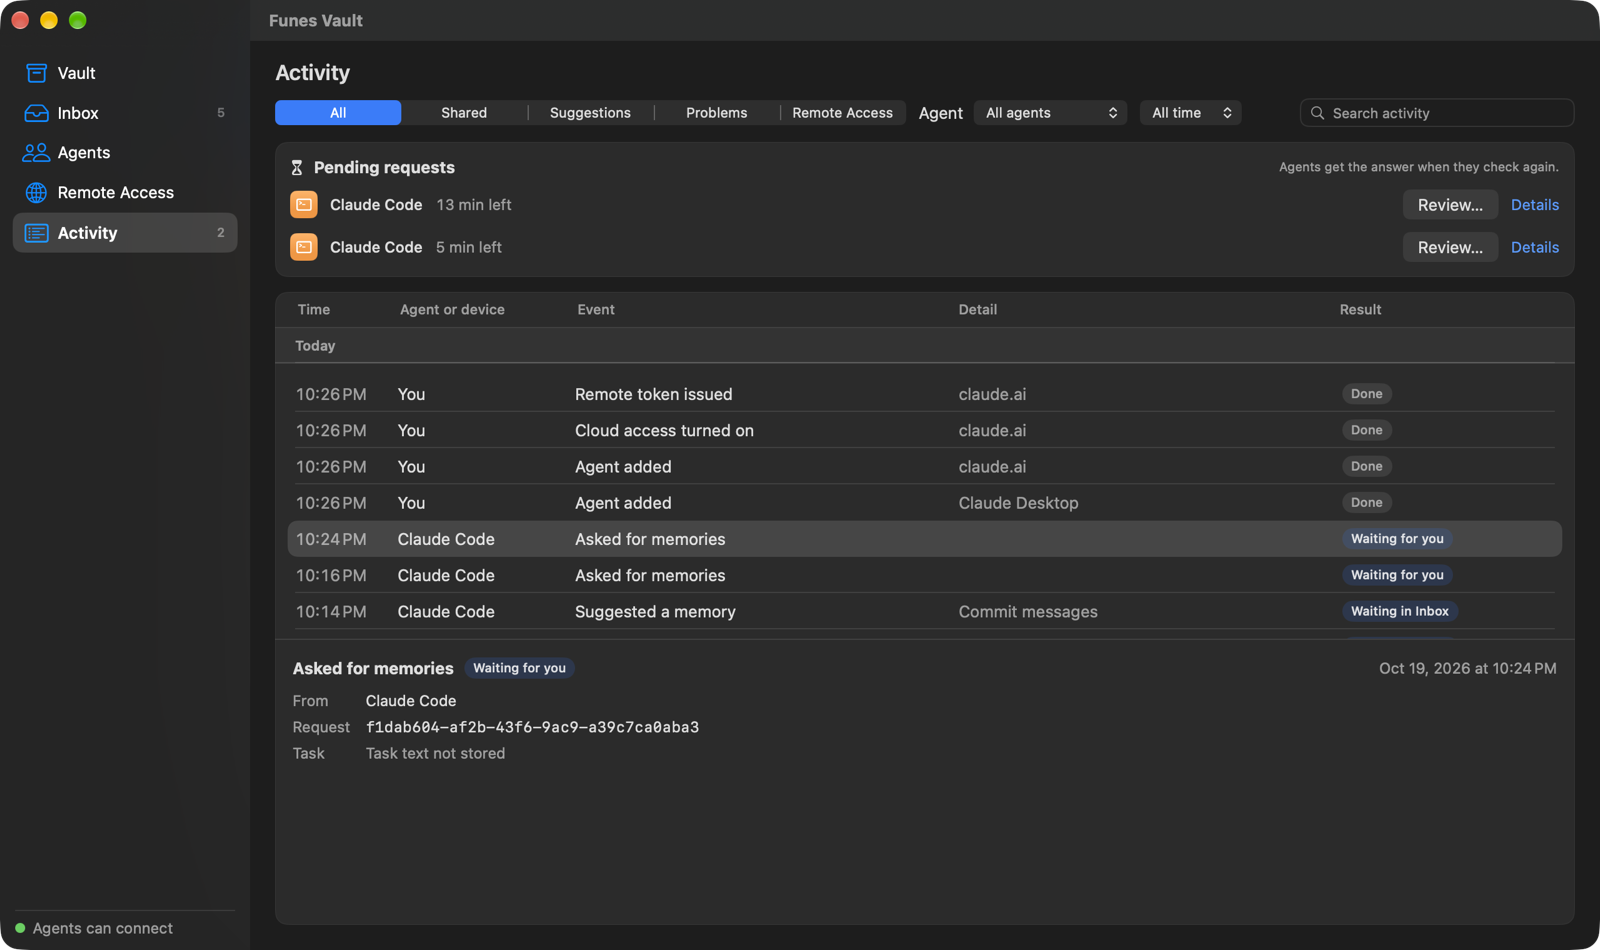
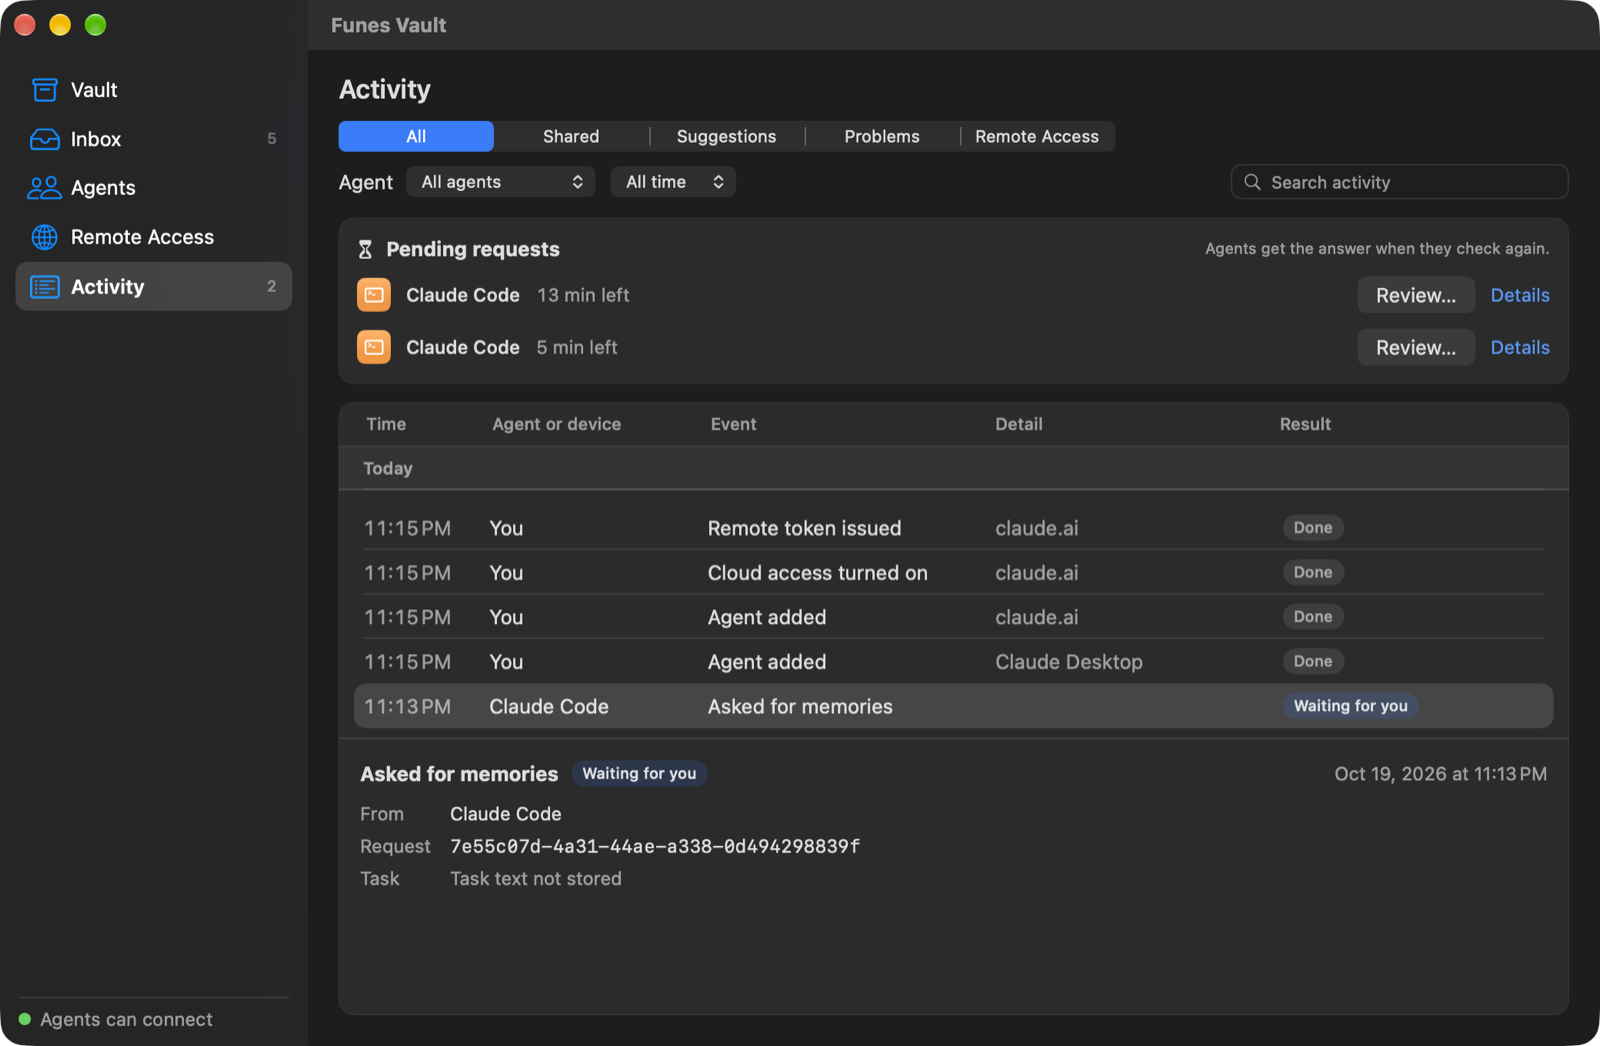
Activity fits the window at its default and minimum sizes
Since the Remote Access filter, the Activity filter row was wider than the
pane at 1040×680, so the page slid under the sidebar and clipped the title,
Pending requests and the table's first columns.

- The filter row keeps one line when it fits; otherwise the agent and period
  pickers and search move below the Show segments (a small Layout, so the
  search field and its focus stay a single view).
- The Event and Detail columns can shrink to 100 and 60 points, so the table
  fits at the 860-point minimum.
- The UI review adds an activity-narrow scene at the minimum width.
- README Activity screenshots regenerated at the default window size.

diff --git a/Apps/FunesMac/Activity/ActivityView.swift b/Apps/FunesMac/Activity/ActivityView.swift
@@ -60,39 +60,95 @@ struct ActivityScreen: View {
         }
     }
 
+    /// One row when the pane is wide enough; otherwise the Show segments on their own line and
+    /// the agent, period and search below, so the page never gets wider than the window.
     private var filters: some View {
-        HStack(spacing: 10) {
-            Picker(String(localized: "Show"), selection: Binding(get: { activity.kind }, set: { activity.kind = $0 })) {
-                ForEach(ActivityEntry.Kind.allCases) { kind in
-                    if kind == .problems {
-                        let count = activity.entries.filter(\.isProblem).count
-                        Text(count > 0 ? String(localized: "Problems \(count)") : kind.title).tag(kind)
-                    } else {
-                        Text(kind.title).tag(kind)
-                    }
-                }
+        FilterRow {
+            kindPicker
+            HStack(spacing: 10) {
+                pickers
+                Spacer(minLength: 8)
+                search
             }
-            .pickerStyle(.segmented)
-            .labelsHidden()
-            .fixedSize()
-            .accessibilityLabel(String(localized: "Show"))
-            Picker(String(localized: "Agent"), selection: Binding(get: { activity.agentFilter }, set: { activity.agentFilter = $0 })) {
-                Text(String(localized: "All agents")).tag(UUID?.none)
-                ForEach(model.allAgents) { agent in Text(model.agentName(agent.id)).tag(Optional(agent.id)) }
-            }
-            .fixedSize()
-            Picker(String(localized: "Period"), selection: Binding(get: { activity.period }, set: { activity.period = $0 })) {
-                ForEach(ActivityModel.Period.allCases) { Text($0.title).tag($0) }
-            }
-            .labelsHidden()
-            .fixedSize()
-            .accessibilityLabel(String(localized: "Period"))
-            Spacer(minLength: 8)
-            SearchField(text: Binding(get: { activity.search }, set: { activity.search = $0 }),
-                        prompt: String(localized: "Search activity"), focused: $searchFocused)
-                .frame(minWidth: 140, maxWidth: 220)
         }
         .controlSize(.small)
+    }
+
+    private var kindPicker: some View {
+        Picker(String(localized: "Show"), selection: Binding(get: { activity.kind }, set: { activity.kind = $0 })) {
+            ForEach(ActivityEntry.Kind.allCases) { kind in
+                if kind == .problems {
+                    let count = activity.entries.filter(\.isProblem).count
+                    Text(count > 0 ? String(localized: "Problems \(count)") : kind.title).tag(kind)
+                } else {
+                    Text(kind.title).tag(kind)
+                }
+            }
+        }
+        .pickerStyle(.segmented)
+        .labelsHidden()
+        .fixedSize()
+        .accessibilityLabel(String(localized: "Show"))
+    }
+
+    @ViewBuilder
+    private var pickers: some View {
+        Picker(String(localized: "Agent"), selection: Binding(get: { activity.agentFilter }, set: { activity.agentFilter = $0 })) {
+            Text(String(localized: "All agents")).tag(UUID?.none)
+            ForEach(model.allAgents) { agent in Text(model.agentName(agent.id)).tag(Optional(agent.id)) }
+        }
+        .fixedSize()
+        Picker(String(localized: "Period"), selection: Binding(get: { activity.period }, set: { activity.period = $0 })) {
+            ForEach(ActivityModel.Period.allCases) { Text($0.title).tag($0) }
+        }
+        .labelsHidden()
+        .fixedSize()
+        .accessibilityLabel(String(localized: "Period"))
+    }
+
+    private var search: some View {
+        SearchField(text: Binding(get: { activity.search }, set: { activity.search = $0 }),
+                    prompt: String(localized: "Search activity"), focused: $searchFocused)
+            .frame(minWidth: 140, idealWidth: 220, maxWidth: 220)
+    }
+}
+
+/// Two views side by side when they fit at their ideal widths, else the second below the first.
+/// The second gets the rest of the width, so its spacer and search field can stretch.
+private struct FilterRow: Layout {
+    var spacing: CGFloat = 10
+    var lineSpacing: CGFloat = 8
+
+    func sizeThatFits(proposal: ProposedViewSize, subviews: Subviews, cache: inout ()) -> CGSize {
+        guard subviews.count == 2 else { return .zero }
+        let first = subviews[0].sizeThatFits(.unspecified)
+        let ideal = subviews[1].sizeThatFits(.unspecified)
+        let width = proposal.width ?? first.width + spacing + ideal.width
+        if fitsOnOneLine(width, first: first, second: ideal) {
+            let second = subviews[1].sizeThatFits(ProposedViewSize(width: width - first.width - spacing, height: nil))
+            return CGSize(width: width, height: max(first.height, second.height))
+        }
+        let second = subviews[1].sizeThatFits(ProposedViewSize(width: width, height: nil))
+        return CGSize(width: width, height: first.height + lineSpacing + second.height)
+    }
+
+    func placeSubviews(in bounds: CGRect, proposal: ProposedViewSize, subviews: Subviews, cache: inout ()) {
+        guard subviews.count == 2 else { return }
+        let first = subviews[0].sizeThatFits(.unspecified)
+        let ideal = subviews[1].sizeThatFits(.unspecified)
+        if fitsOnOneLine(bounds.width, first: first, second: ideal) {
+            subviews[0].place(at: CGPoint(x: bounds.minX, y: bounds.midY), anchor: .leading, proposal: .unspecified)
+            subviews[1].place(at: CGPoint(x: bounds.minX + first.width + spacing, y: bounds.midY), anchor: .leading,
+                              proposal: ProposedViewSize(width: bounds.width - first.width - spacing, height: nil))
+        } else {
+            subviews[0].place(at: CGPoint(x: bounds.minX, y: bounds.minY), proposal: .unspecified)
+            subviews[1].place(at: CGPoint(x: bounds.minX, y: bounds.minY + first.height + lineSpacing),
+                              proposal: ProposedViewSize(width: bounds.width, height: nil))
+        }
+    }
+
+    private func fitsOnOneLine(_ width: CGFloat, first: CGSize, second: CGSize) -> Bool {
+        first.width + spacing + second.width <= width
     }
 }
 
@@ -155,8 +211,8 @@ struct ActivityList: View {
         HStack(spacing: 12) {
             Text(String(localized: "Time")).frame(width: 70, alignment: .leading)
             if !isAgentScope { Text(String(localized: "Agent or device")).frame(width: 130, alignment: .leading) }
-            Text(String(localized: "Event")).frame(minWidth: 140, maxWidth: .infinity, alignment: .leading)
-            Text(String(localized: "Detail")).frame(minWidth: 100, maxWidth: .infinity, alignment: .leading)
+            Text(String(localized: "Event")).frame(minWidth: 100, maxWidth: .infinity, alignment: .leading)
+            Text(String(localized: "Detail")).frame(minWidth: 60, maxWidth: .infinity, alignment: .leading)
             Text(String(localized: "Result")).frame(width: 170, alignment: .leading)
         }
         .font(.subheadline.weight(.medium))
@@ -245,9 +301,9 @@ struct ActivityRowView: View {
                     .help(String(localized: "via Remote Access"))
                     .accessibilityLabel(String(localized: "via Remote Access"))
             }
-            Text(entry.label).lineLimit(1).frame(minWidth: 140, maxWidth: .infinity, alignment: .leading)
+            Text(entry.label).lineLimit(1).frame(minWidth: 100, maxWidth: .infinity, alignment: .leading)
             Text(ActivityText.detail(entry, model: model)).foregroundStyle(.secondary).lineLimit(1)
-                .frame(minWidth: 100, maxWidth: .infinity, alignment: .leading)
+                .frame(minWidth: 60, maxWidth: .infinity, alignment: .leading)
             Pill(label: result.text, tone: result.tone).frame(width: 170, alignment: .leading)
         }
         .padding(.vertical, 2)

diff --git a/Apps/FunesMac/Review/UIReview.swift b/Apps/FunesMac/Review/UIReview.swift
@@ -194,6 +194,10 @@ final class UIReview: NSObject, NSApplicationDelegate {
                 model.section = .activity
                 model.activity.selection = model.activity.entries.first(where: { $0.event.event == "request_memory" })?.id
             }
+            // The same page at the window's minimum width, where the filters take two lines.
+            main.window?.setContentSize(NSSize(width: MainWindowController.minimumSize.width, height: 680))
+            await mainScene("activity-narrow") {}
+            main.window?.setContentSize(NSSize(width: 1_040, height: 680))
 
             // Remote Access: before setup, the guide, set up, and an agent's Cloud tab.
             let remote = model.remoteAccess

diff --git a/CHANGELOG.md b/CHANGELOG.md
@@ -11,6 +11,10 @@ Notable changes to Funes Vault, newest first, in the [Keep a Changelog](https://
   - Then **Address ▸ Edit…** changes the address to the one without a port.
   - BridgeKit 0.4.1.
 
+### Fixed
+
+- **Activity fits the window again.** Since the Remote Access filter, the filter row was wider than the page at the default window size, so the page slid under the sidebar and cut off the title, Pending requests and the table's first columns. The agent and period pickers and search now move to a second line when the row doesn't fit, and the Event and Detail columns can get narrower, down to the window's minimum width.
+
 ## [0.1.2] - 2026-10-19
 
 The first public preview. 0.1.0 and 0.1.1 were preview builds, kept on GitHub as pre-releases: everything in them below is in 0.1.2, with this fix in place of 0.1.1's.
